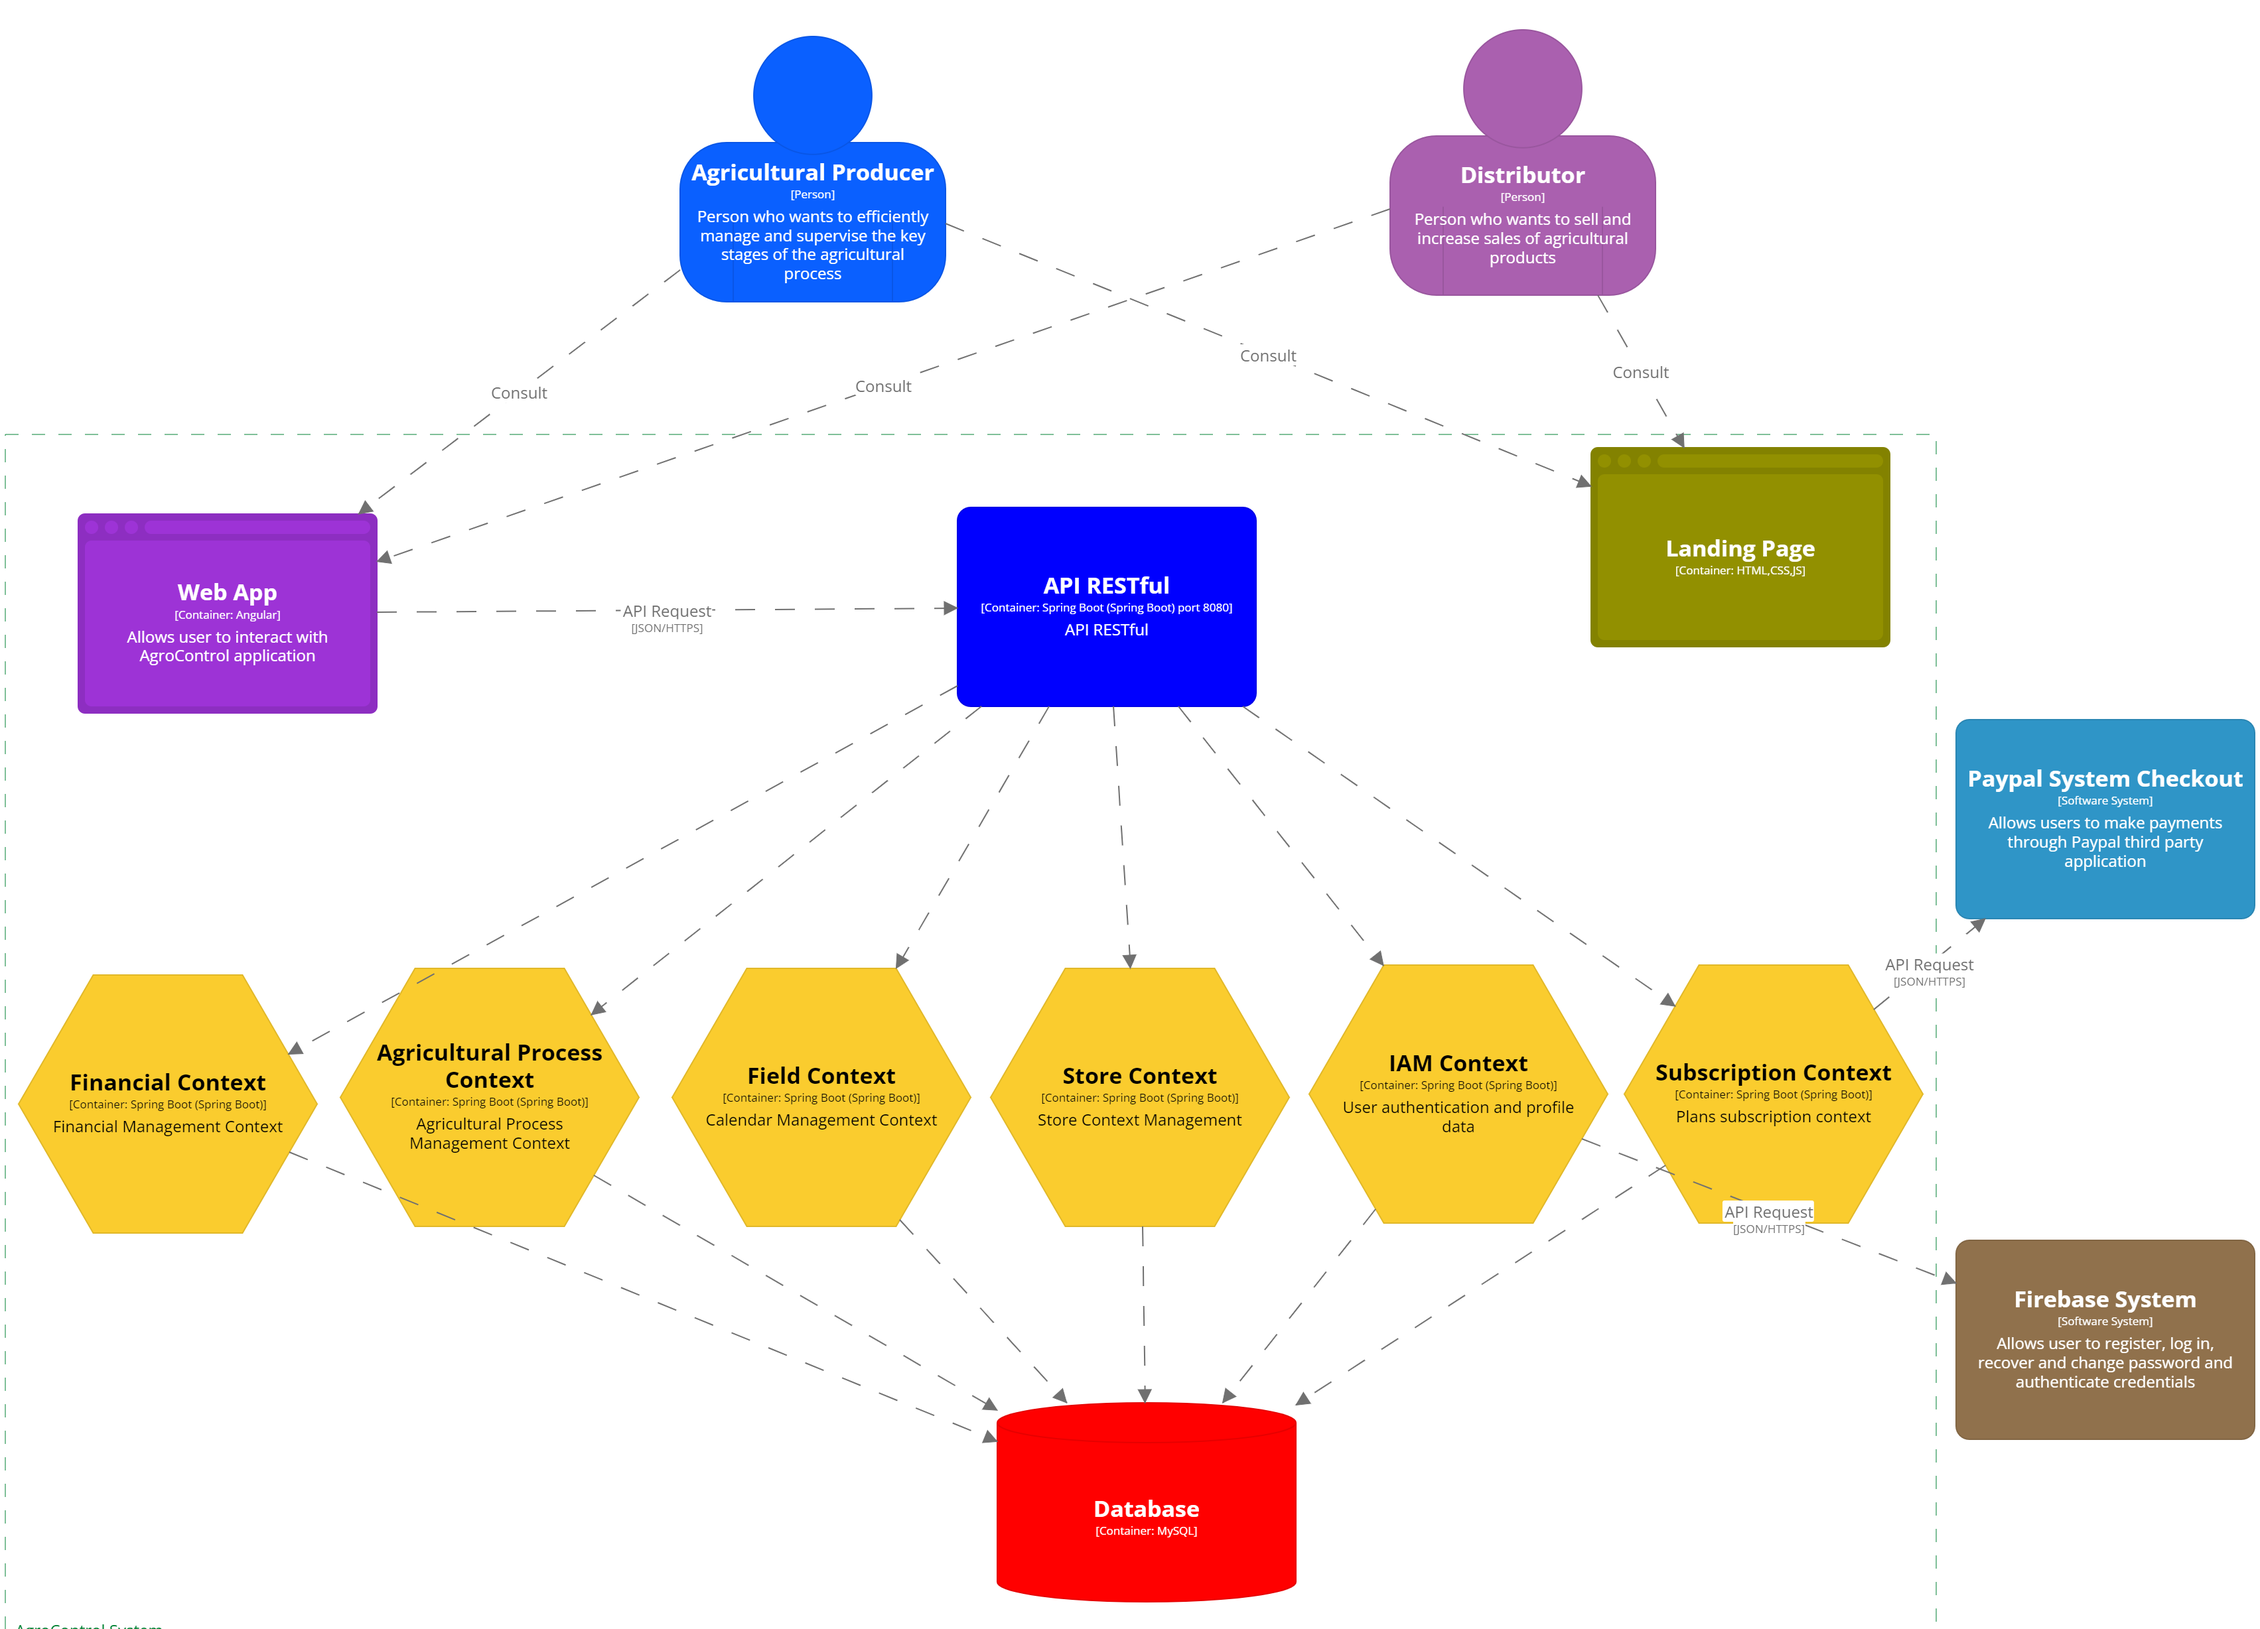
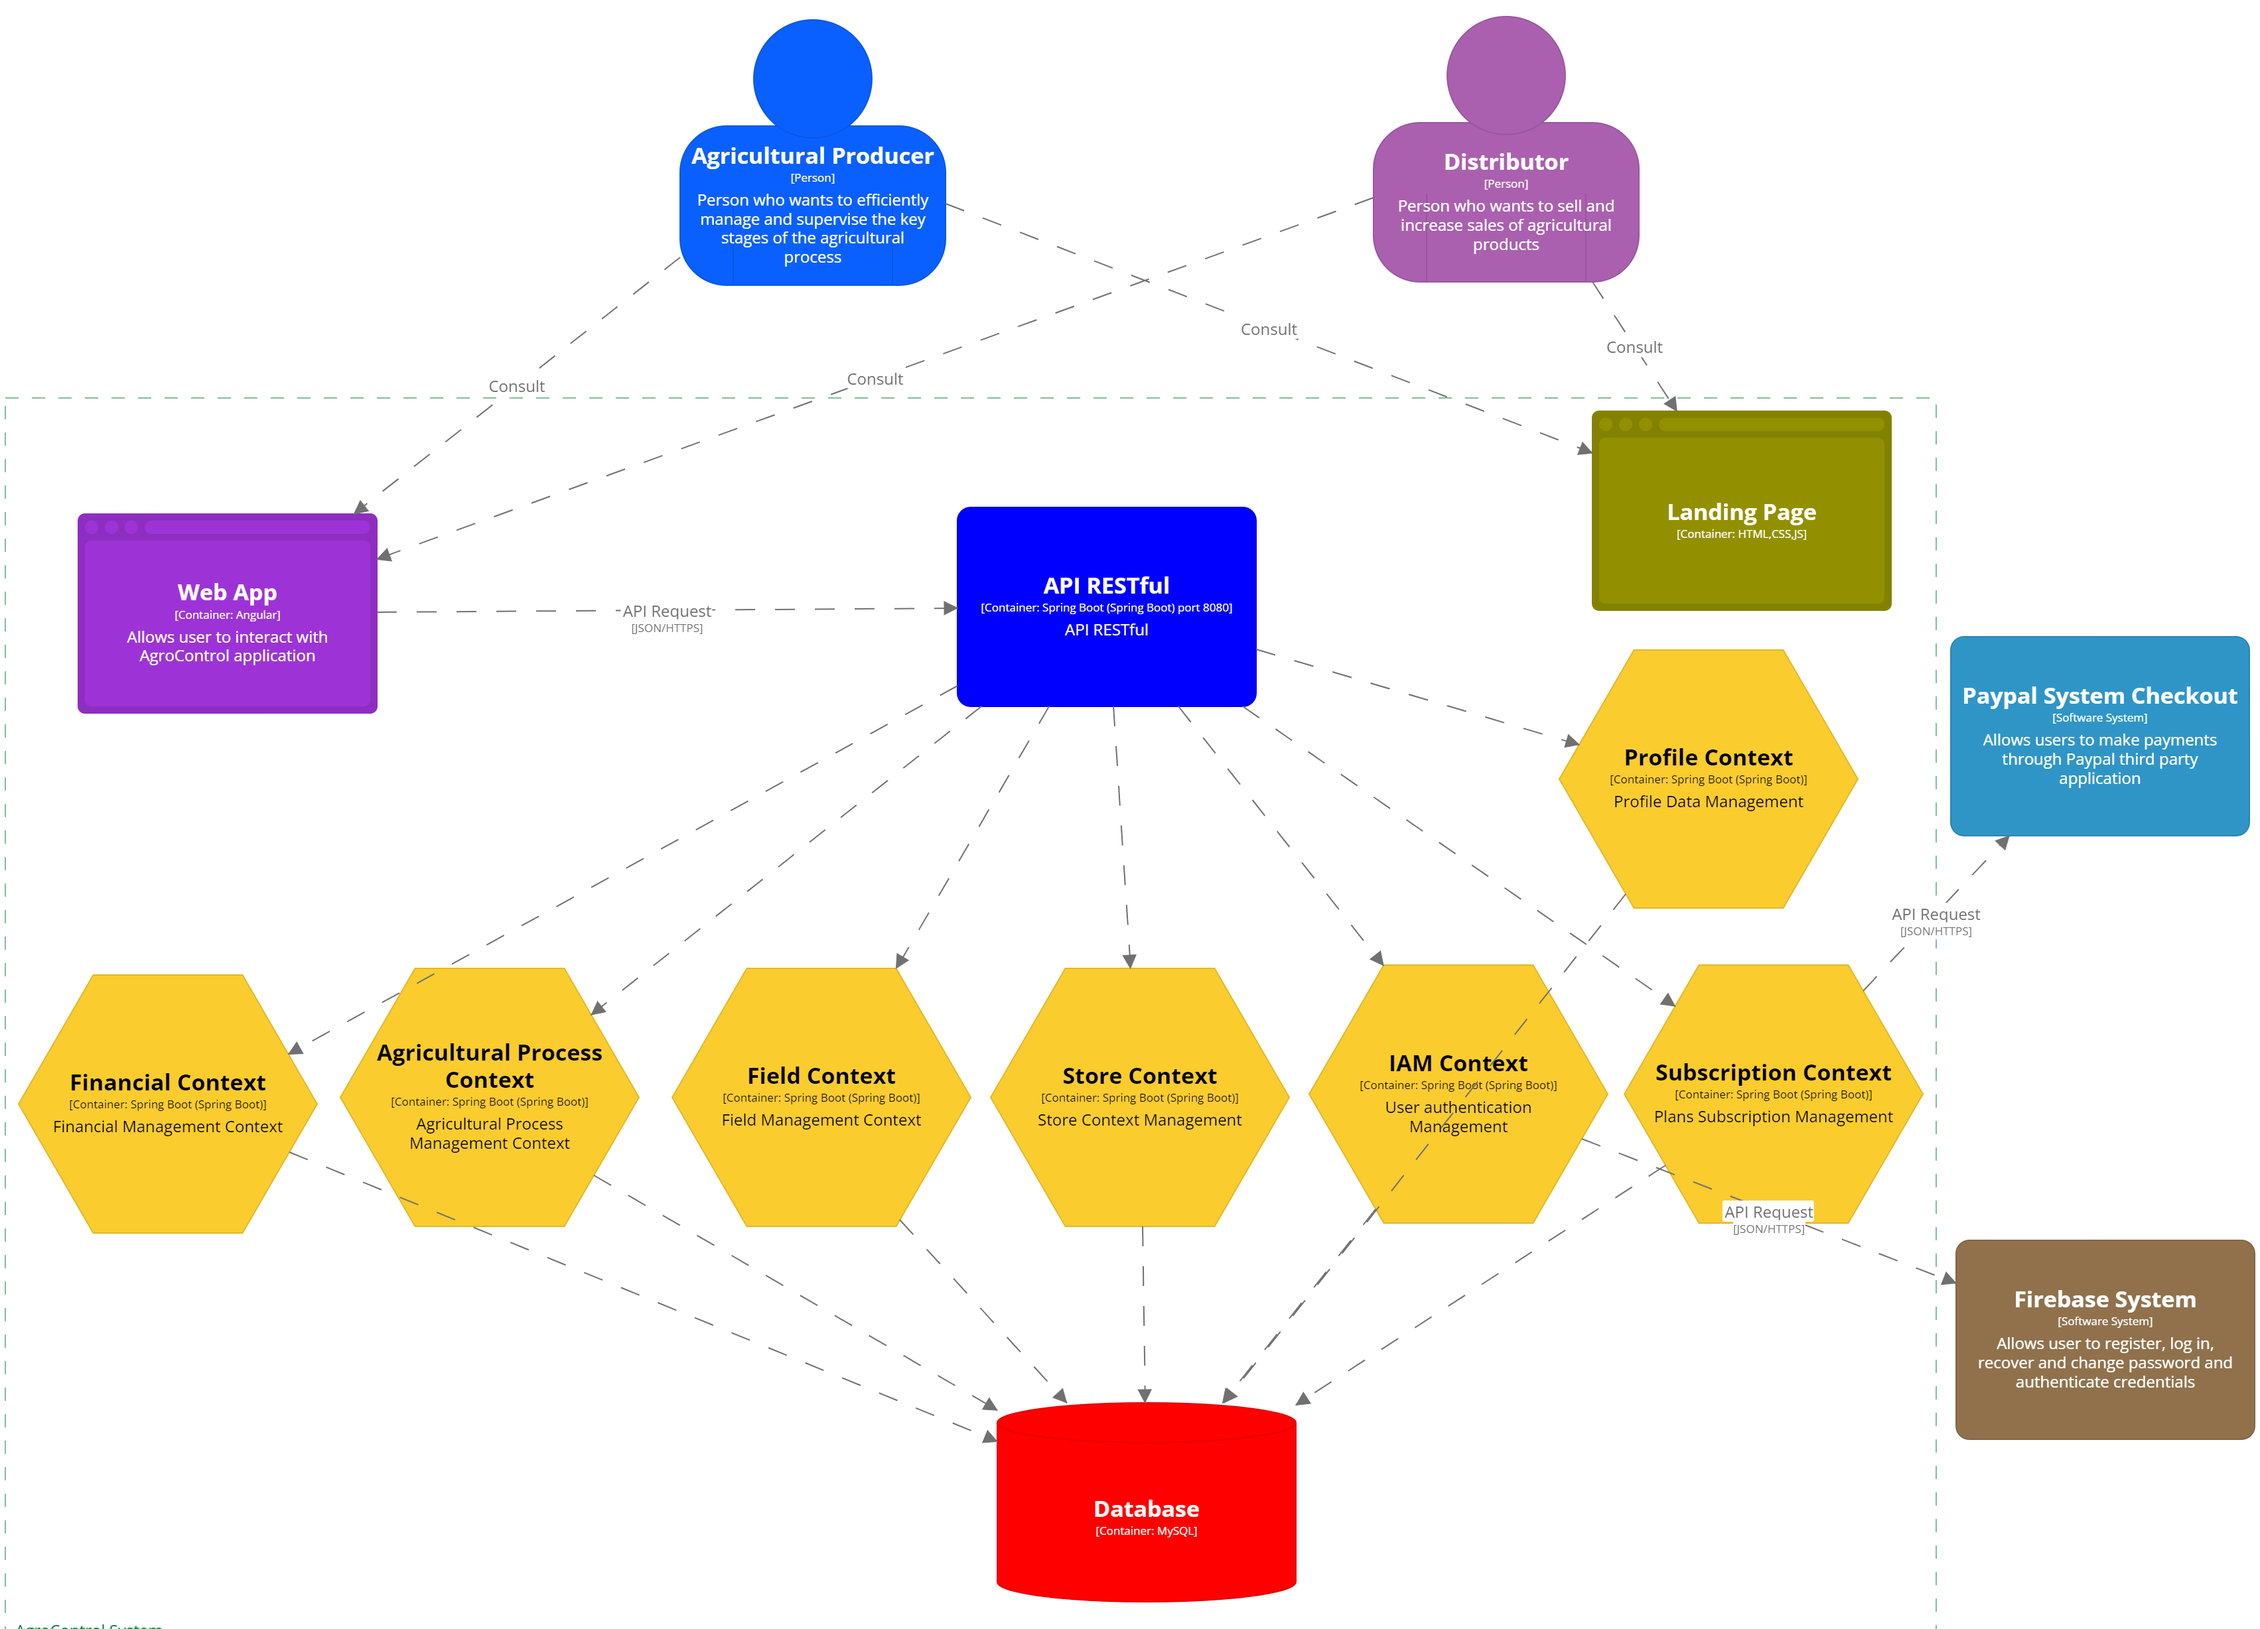
docs: upload new container diagram and profile context Diagram

diff --git a/README.md b/README.md
@@ -1138,8 +1138,6 @@ Redactamos historias de usuarios que nos ayuden a generar funciones del software
 |E6-US122|Obtener fechas de financiamiento atraves de la APIRESTful|**Como** desarrollador **quiero** obtener las fechas de financiamiento atraves de la API **para** mostrar los datos en la aplicación|<p>**Escenario 1: Obtener informacion de la fechas de financiamiento**</p><p>**Dado que** el endpoint "api/v1/finances/{agriculturalProcessId} esta disponible</p><p>**Cuando** envia la solicitud GET con los siguientes datos: agriculturalProcessId</p><p>**Entonces** recibe una respuesta con estado 200 y recibe un recurso treatment con los siguientes datos: financesId, fecha financiamiento, costo total, ingresos totales, ganacia </p>|6|
 |E6-US123|Eliminar fechas de financiamiento atraves de la APIRESTful|**Como** desarrollador **quiero** eliminar fechas de financiamiento atraves de la API **para** eliminar los datos en la aplicación|<p>**Escenario 1: Eliminar fecha de financiamiento**</p><p>**Dado que** el endpoint "api/v1/finances/{financesId} esta disponible</p><p>**Cuando** envia la solicitud DELETE con los siguientes datos: id</p><p>**Entonces** recibe una respuesta con estado 200 con el mensaje "La fecha de financiamiento ha sido eliminada exitosamente"</p>|6|
 
-
-
 ## 3.3. Impact Mapping.
 A continuación, toca analizar cómo se relacionan nuestras metas de negocios con los principales entregables de nuestro proyecto. Se eligieron las user stories de mayor importancia para el proceso de nuestro aplicativo y su impacto a futuro.
 
@@ -1816,7 +1814,7 @@ El diagrama de contexto del sistema muestra la relación entre el sistema y los 
 ### 4.6.2. Software Architecture Container Diagrams.
 Las aplicaciones web, las bases de datos, los microservicios y cómo se comunican entre sí se muestran en los diagramas de contenedores. Estos diagramas destacan las responsabilidades y las interacciones de cada contenedor, ofreciendo una visión general de la arquitectura del sistema.
 
-<img src="https://github.com/W3bW0rks/project-report/blob/c6f5c9a756aec6fa878ecd9cb9e67caac12c1e1b/assets/chapter%204-C4%20model/Container%20Diagram.png">
+<img src="">
 
 ### 4.6.3. Software Architecture Components Diagrams.  
 Los diagramas de componentes de la arquitectura de software se presentan en esta sección. Estos diagramas muestran los diversos componentes del sistema, sus funciones y cómo interactúan entre sí.
@@ -1825,7 +1823,11 @@ Los diagramas de componentes de la arquitectura de software se presentan en esta
 
 <img src="https://github.com/W3bW0rks/project-report/blob/c6f5c9a756aec6fa878ecd9cb9e67caac12c1e1b/assets/chapter%204-C4%20model/Component%20Diagram-IAM%20Context.png">
 
-#### Fiedl Bounded Context
+#### Profile Bounded Context
+
+<img src="">
+
+#### Field Bounded Context
 
 <img src="https://github.com/W3bW0rks/project-report/blob/c6f5c9a756aec6fa878ecd9cb9e67caac12c1e1b/assets/chapter%204-C4%20model/Component%20Diagram-Field%20Context.png">
 
